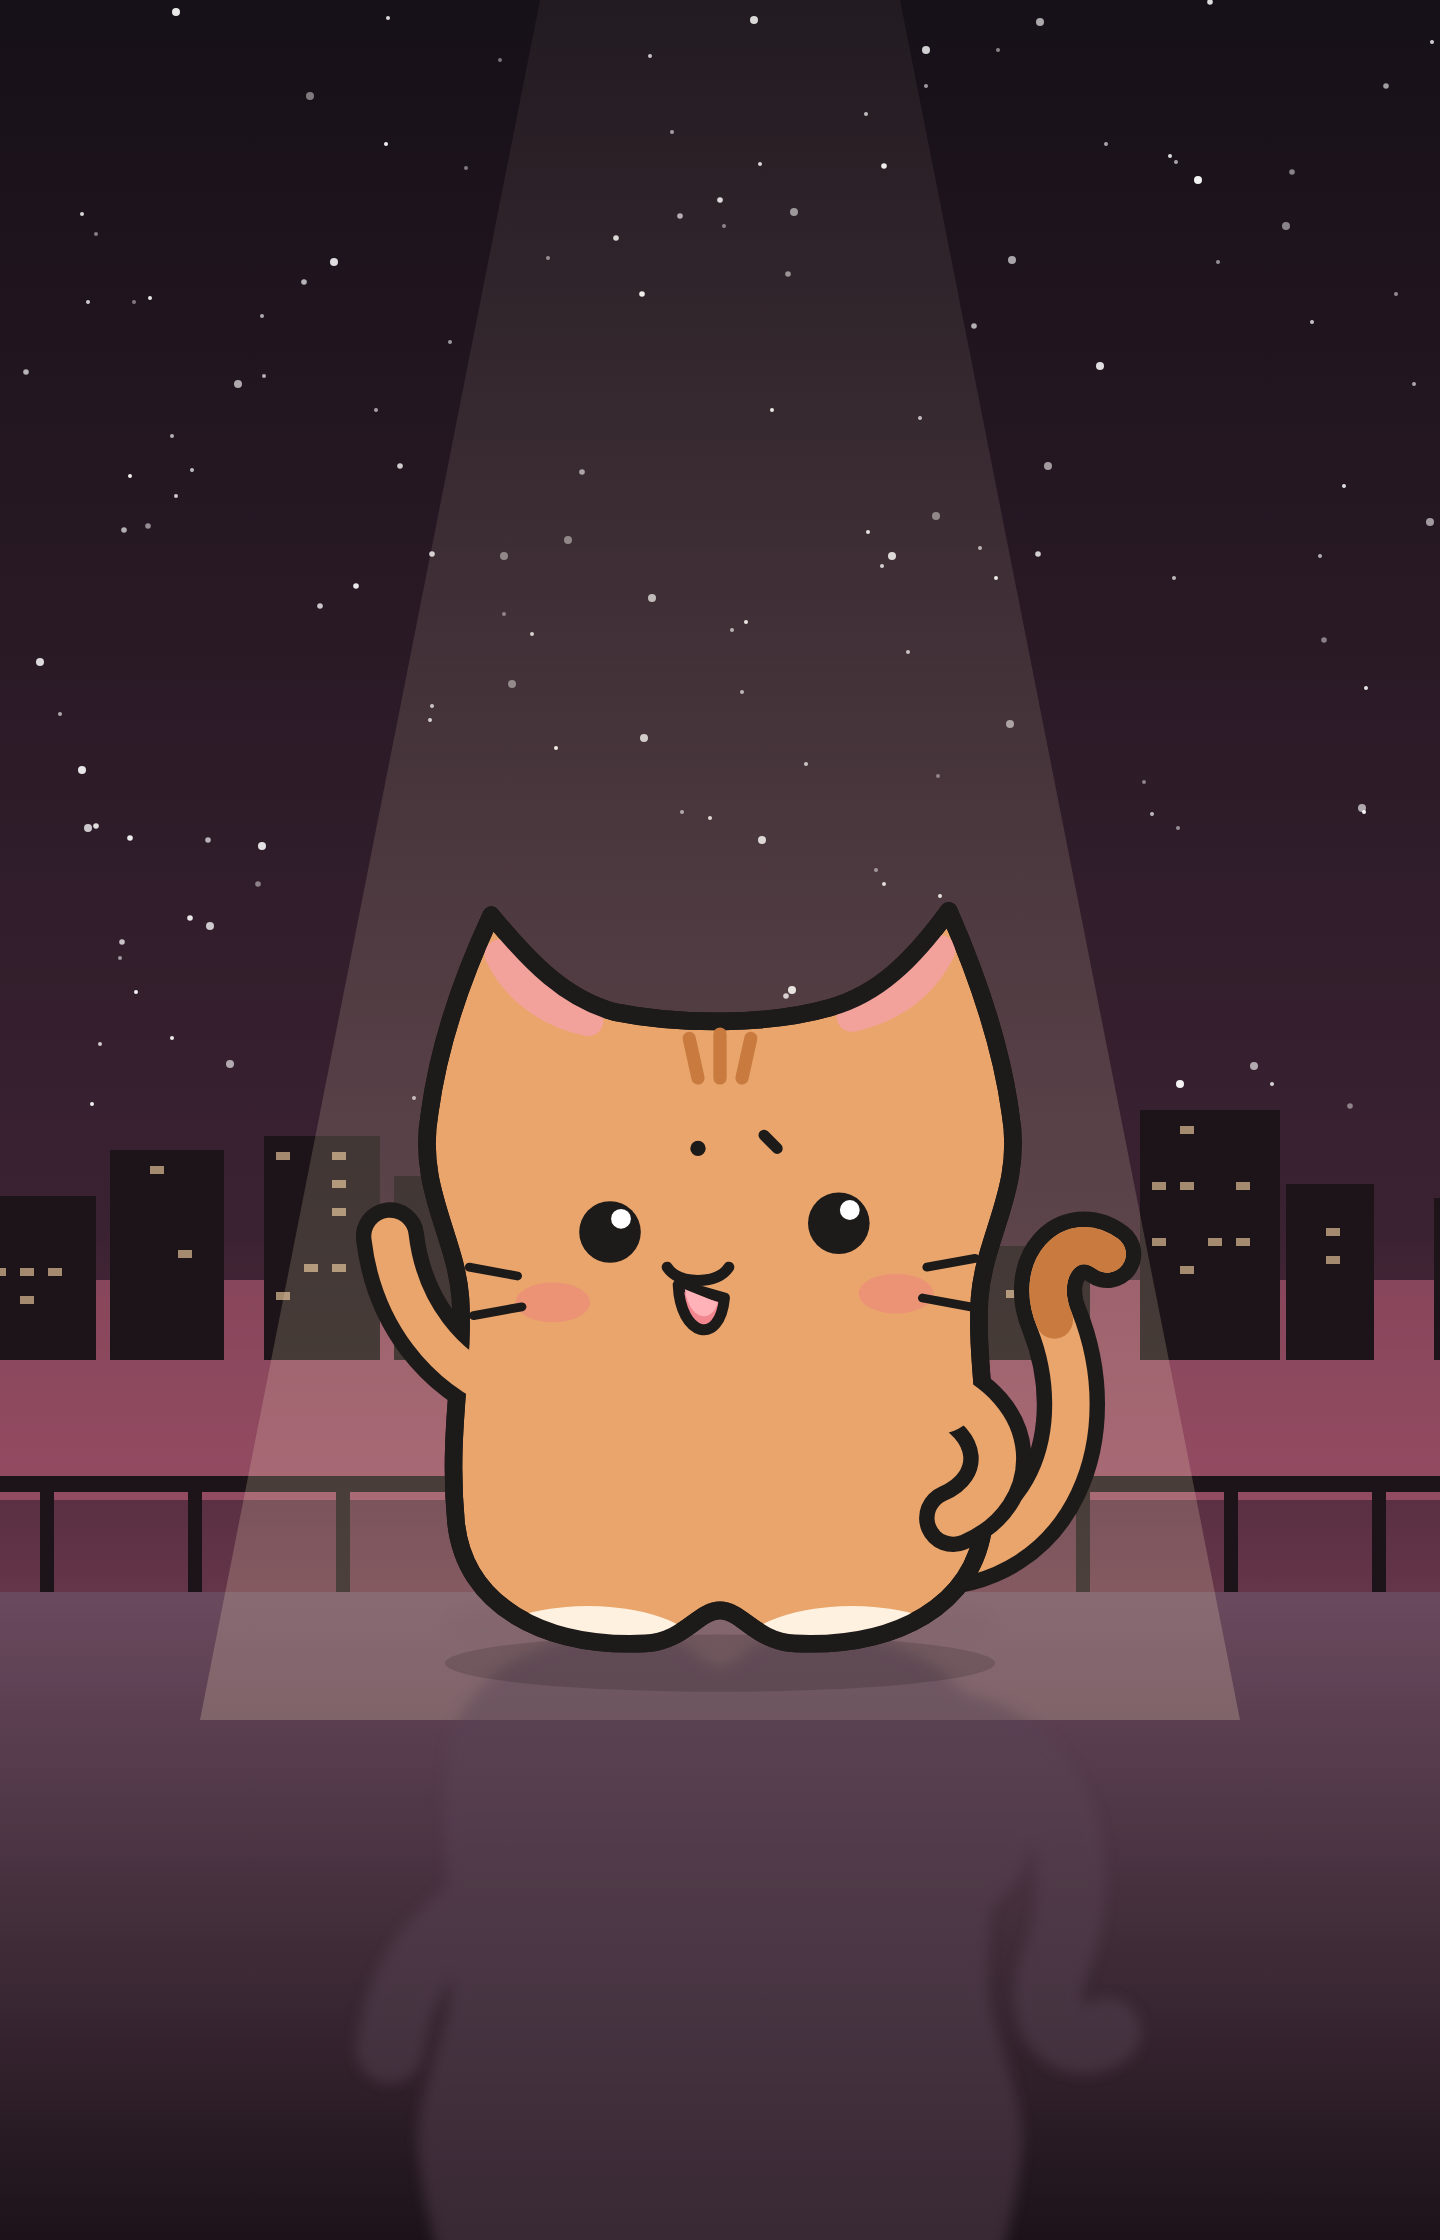
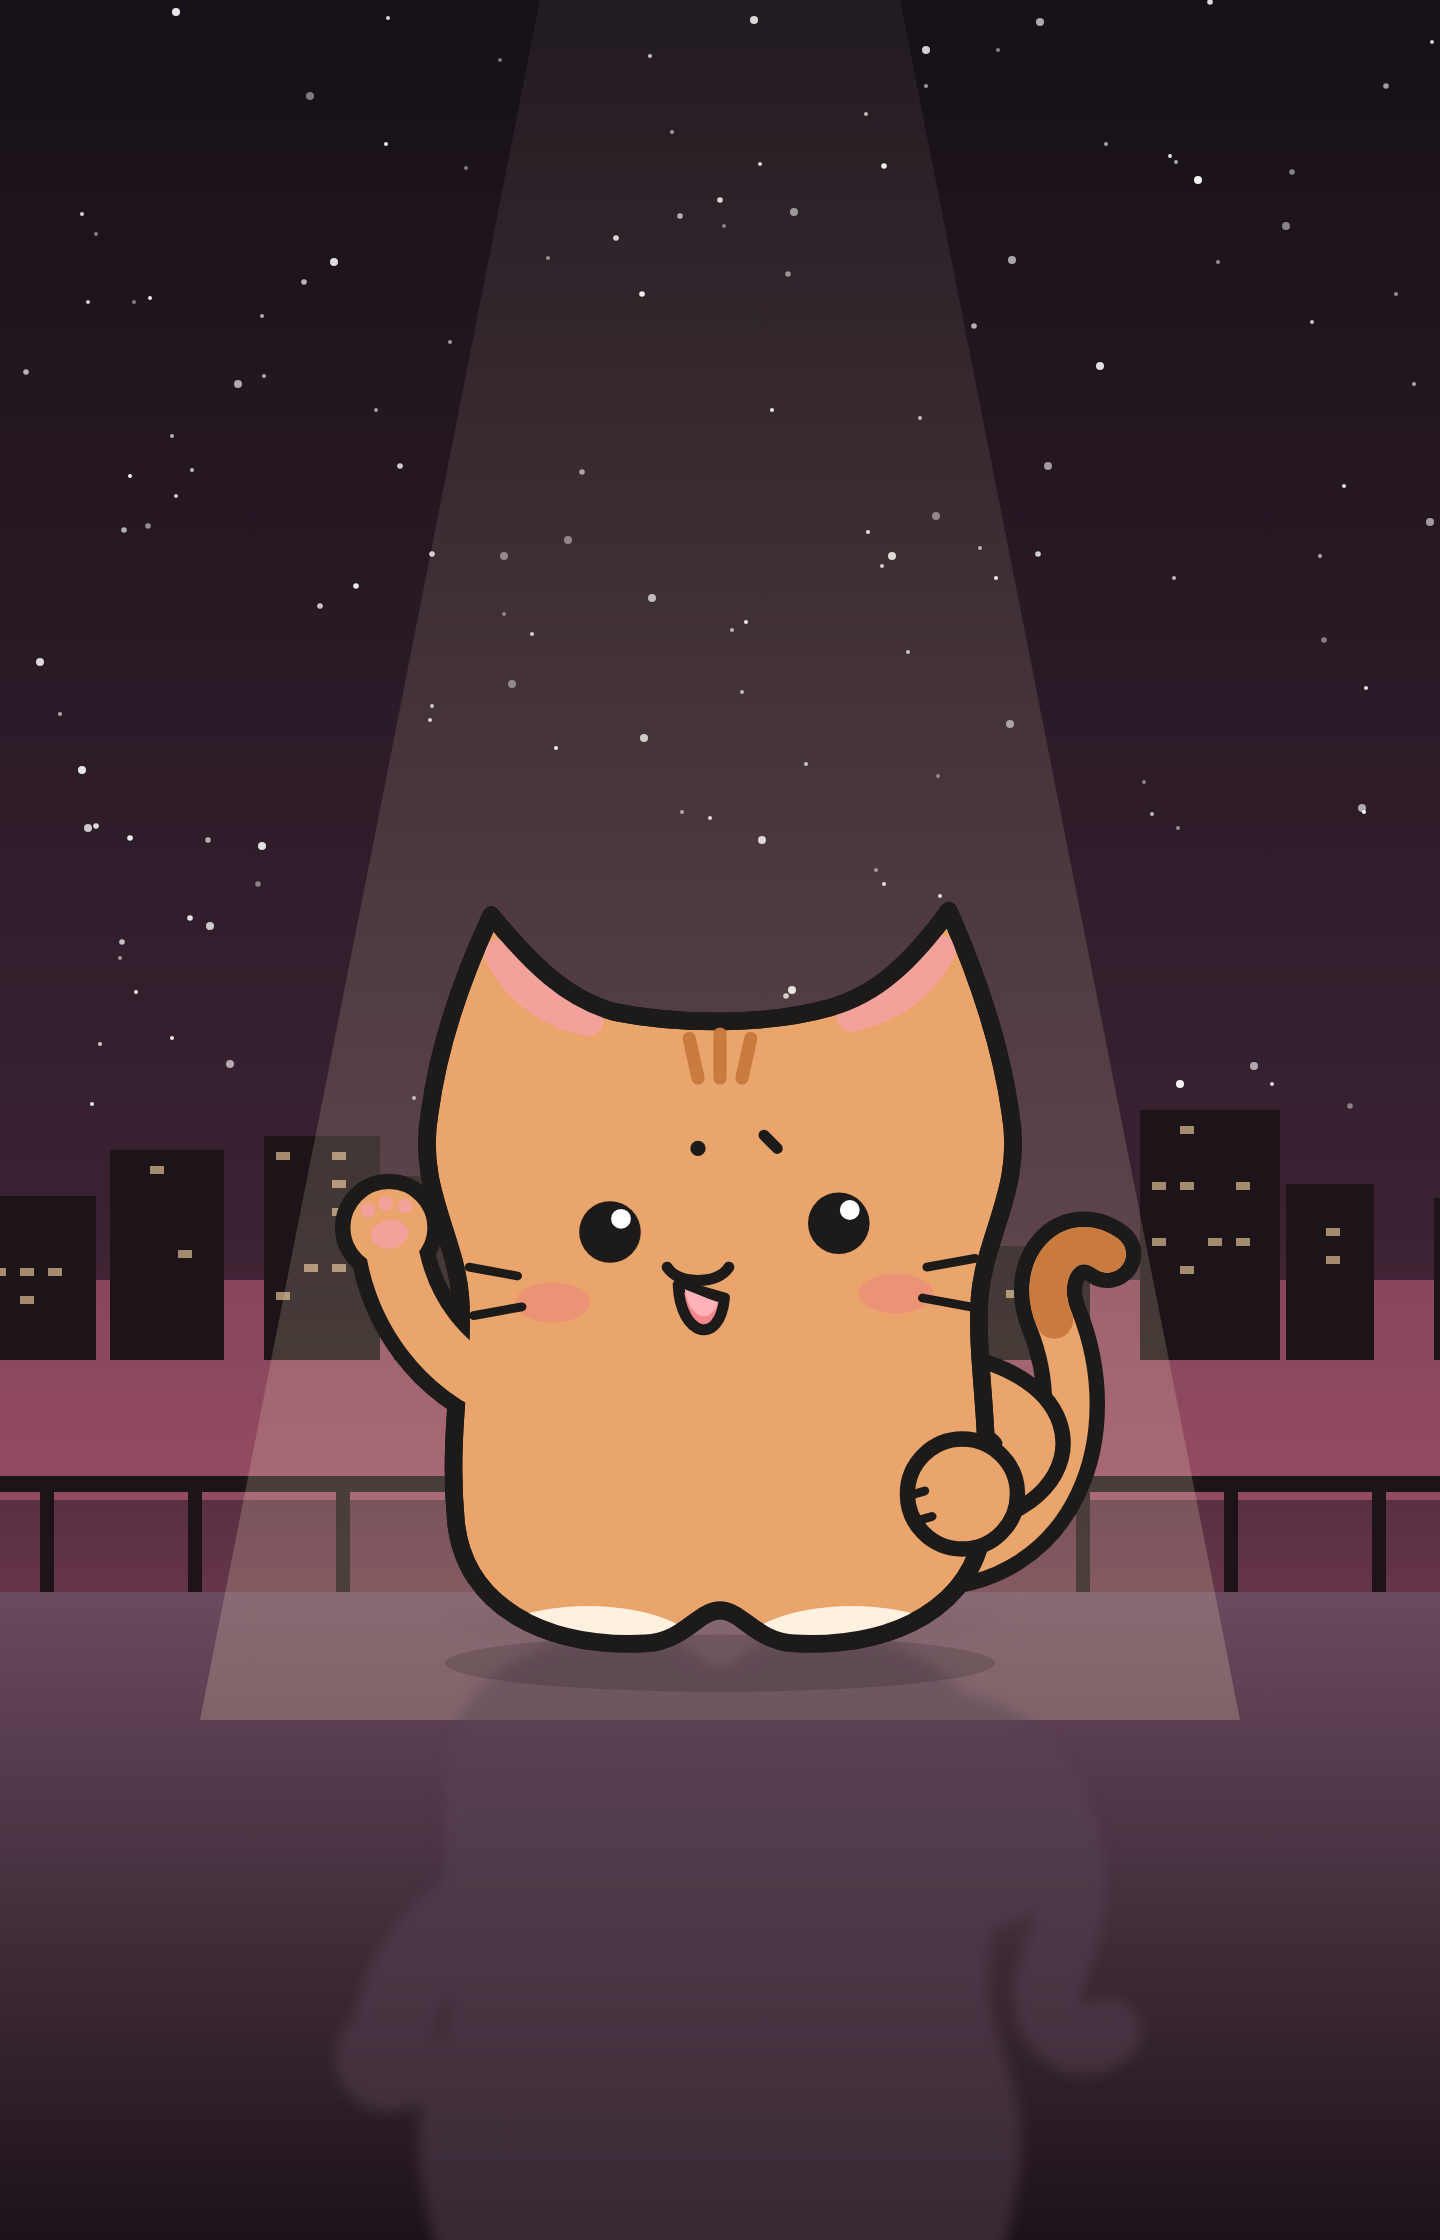
Thicker arms with paws; tuck hand-on-hip arms behind the body
Claude-Session: https://claude.ai/code/session_01WopMkcLvWqfaJwoxBBe3rR

Changed region(s): [[0.625, 0.5938, 0.75, 0.6875], [0.2188, 0.5, 0.3438, 0.625]]

diff --git a/characters/bears.py b/characters/bears.py
@@ -44,6 +44,43 @@ def noodle(d, fill, w=17, mask=None):
             f'<path d="{d}" fill="none" stroke="{fill}" stroke-width="{w}" stroke-linecap="round" stroke-linejoin="round"/>')
 
 
+def paw(d, fur, palm, r=21):
+    """Rounded paw at the end of an arm path. palm=True shows a pad + toe beans, else toe lines."""
+    import math, re
+    n = [float(v) for v in re.findall(r"-?\d+\.?\d*", d)]
+    cx, cy, ex, ey = n[-4], n[-3], n[-2], n[-1]
+    dx, dy = ex - cx, ey - cy
+    k = math.hypot(dx, dy) or 1
+    dx, dy = dx / k, dy / k
+    px, py = -dy, dx
+    ox, oy = ex + dx * 4, ey + dy * 4           # paw centre, nudged past the arm end
+    s = f'<circle cx="{ox:.1f}" cy="{oy:.1f}" r="{r}" fill="{fur}" stroke="{INK}" stroke-width="7"/><!--details-->'
+    if palm:
+        ang = math.degrees(math.atan2(dy, dx))
+        s += (f'<ellipse cx="{ox - dx * 3:.1f}" cy="{oy - dy * 3:.1f}" rx="6.5" ry="8.5" '
+              f'transform="rotate({ang:.1f} {ox - dx * 3:.1f} {oy - dy * 3:.1f})" fill="#f2a29b"/>')
+        for t in (-8.5, 0, 8.5):
+            bx = ox + dx * (11 - abs(t) * .25) + px * t
+            by = oy + dy * (11 - abs(t) * .25) + py * t
+            s += f'<circle cx="{bx:.1f}" cy="{by:.1f}" r="3.4" fill="#f2a29b"/>'
+    else:
+        for t in (-6, 6):
+            x1, y1 = ox + dx * r + px * t, oy + dy * r + py * t
+            x2, y2 = ox + dx * (r - 9) + px * t, oy + dy * (r - 9) + py * t
+            s += f'<path d="M{x1:.1f},{y1:.1f} L{x2:.1f},{y2:.1f}" {line(4)}/>'
+    return s
+
+
+def arm(d, fur, palm, mask=None, w=24):
+    """Noodle arm + paw. Order: arm outline, paw, arm fill (hides the wrist seam), paw details."""
+    m = f' mask="url(#{mask})"' if mask else ""
+    ink = f'<path d="{d}"{m} fill="none" stroke="{INK}" stroke-width="{w + 14}" stroke-linecap="round" stroke-linejoin="round"/>'
+    fill = f'<path d="{d}" fill="none" stroke="{fur}" stroke-width="{w}" stroke-linecap="round" stroke-linejoin="round"/>'
+    p = paw(d, fur, palm)
+    base, details = p.split("<!--details-->")
+    return ink + base + fill + details
+
+
 # Head + body blob with flared top corners and two foot bumps.
 BODY = ("M200,432 C190,432 184,446 166,447 C120,449 84,430 80,392 C76,350 84,320 82,290 C80,262 60,240 66,200 "
         "C70,170 80,150 102,144 C140,138 170,146 200,146 C230,146 262,138 298,144 "
@@ -51,9 +88,9 @@ BODY = ("M200,432 C190,432 184,446 166,447 C120,449 84,430 80,392 C76,350 84,320
 
 ARMS = {
     "left-up": "M104,334 C74,322 54,296 50,262",
-    "left-hip": "M102,330 C66,344 66,378 94,390",
+    "left-hip": "M102,330 C54,336 44,366 86,378",
     "right-up": "M296,334 C326,322 346,296 350,262",
-    "right-hip": "M298,330 C334,344 334,378 306,390",
+    "right-hip": "M298,330 C346,336 356,366 314,378",
 }
 
 
@@ -111,16 +148,21 @@ def bear(key, fur, ear_in, muzzle, female, wave_side):
     ]
     if not female:
         layers.append(extra)  # tuft sits behind the head outline
-    layers += [
-        L("body", "\n".join(body_inner), (200, 440)),
-        L("arm-left", noodle(arm_l, fur, mask=f"{key}-arm-left-m"), (104, 332)),
-        L("arm-right", noodle(arm_r, fur, mask=f"{key}-arm-right-m"), (296, 332)),
-    ]
+    # A waving arm sits in front of the body. A hand-on-hip arm is tucked behind the body
+    # (only the elbow shows) and its paw is a separate layer in front, with the same pivot.
+    behind, front = [], []
+    for side, d, piv in (("left", arm_l, (104, 332)), ("right", arm_r, (296, 332))):
+        if wave_side == side:
+            front.append(L(f"arm-{side}", arm(d, fur, True, mask=f"{key}-arm-{side}-m"), piv))
+        else:
+            behind.append(L(f"arm-{side}", noodle(d, fur, w=24), piv))
+            front.append(L(f"paw-{side}", paw(d, fur, False, r=25).replace("<!--details-->", ""), piv))
+    layers += behind + [L("body", "\n".join(body_inner), (200, 440))] + front
     if female:
         layers.append(extra)  # bow sits on top of the ear
     defs = (f'<clipPath id="{key}-clip"><path d="{BODY}"/></clipPath>'
-            + shoulder_mask(f"{key}-arm-left-m", f"{key}-clip", 104, 332, r=40 if wave_side == "left" else 22)
-            + shoulder_mask(f"{key}-arm-right-m", f"{key}-clip", 296, 332, r=40 if wave_side == "right" else 22))
+            + shoulder_mask(f"{key}-arm-left-m", f"{key}-clip", 104, 332, r=400)
+            + shoulder_mask(f"{key}-arm-right-m", f"{key}-clip", 296, 332, r=400))
     return "\n".join(layers), defs
 
 

diff --git a/characters/cat.py b/characters/cat.py
@@ -48,16 +48,55 @@ def noodle(d, fill, w=17, mask=None):
             f'<path d="{d}" fill="none" stroke="{fill}" stroke-width="{w}" stroke-linecap="round" stroke-linejoin="round"/>')
 
 
+def paw(d, fur, palm, r=21):
+    """Rounded paw at the end of an arm path. palm=True shows a pad + toe beans, else toe lines."""
+    import math, re
+    n = [float(v) for v in re.findall(r"-?\d+\.?\d*", d)]
+    cx, cy, ex, ey = n[-4], n[-3], n[-2], n[-1]
+    dx, dy = ex - cx, ey - cy
+    k = math.hypot(dx, dy) or 1
+    dx, dy = dx / k, dy / k
+    px, py = -dy, dx
+    ox, oy = ex + dx * 4, ey + dy * 4           # paw centre, nudged past the arm end
+    s = f'<circle cx="{ox:.1f}" cy="{oy:.1f}" r="{r}" fill="{fur}" stroke="{INK}" stroke-width="7"/><!--details-->'
+    if palm:
+        ang = math.degrees(math.atan2(dy, dx))
+        s += (f'<ellipse cx="{ox - dx * 3:.1f}" cy="{oy - dy * 3:.1f}" rx="6.5" ry="8.5" '
+              f'transform="rotate({ang:.1f} {ox - dx * 3:.1f} {oy - dy * 3:.1f})" fill="#f2a29b"/>')
+        for t in (-8.5, 0, 8.5):
+            bx = ox + dx * (11 - abs(t) * .25) + px * t
+            by = oy + dy * (11 - abs(t) * .25) + py * t
+            s += f'<circle cx="{bx:.1f}" cy="{by:.1f}" r="3.4" fill="#f2a29b"/>'
+    else:
+        for t in (-6, 6):
+            x1, y1 = ox + dx * r + px * t, oy + dy * r + py * t
+            x2, y2 = ox + dx * (r - 9) + px * t, oy + dy * (r - 9) + py * t
+            s += f'<path d="M{x1:.1f},{y1:.1f} L{x2:.1f},{y2:.1f}" {line(4)}/>'
+    return s
+
+
+def arm(d, fur, palm, mask=None, w=24):
+    """Noodle arm + paw. Order: arm outline, paw, arm fill (hides the wrist seam), paw details."""
+    m = f' mask="url(#{mask})"' if mask else ""
+    ink = f'<path d="{d}"{m} fill="none" stroke="{INK}" stroke-width="{w + 14}" stroke-linecap="round" stroke-linejoin="round"/>'
+    fill = f'<path d="{d}" fill="none" stroke="{fur}" stroke-width="{w}" stroke-linecap="round" stroke-linejoin="round"/>'
+    p = paw(d, fur, palm)
+    base, details = p.split("<!--details-->")
+    return ink + base + fill + details
+
+
 # One blob for head + body; ear tips at the top corners, two foot bumps at the bottom.
 BODY = ("M200,432 C190,432 184,446 166,447 C120,449 84,430 80,392 C76,350 84,320 82,290 C80,262 62,240 68,206 "
         "C72,176 82,146 96,116 C114,138 130,154 152,160 C182,166 222,166 250,158 "
         "C272,152 288,136 304,114 C318,146 328,176 332,206 C338,240 320,262 318,290 C316,320 324,350 320,392 C316,430 280,449 234,447 C216,446 210,432 200,432 Z")
 
+HIP = "M298,330 C346,336 356,366 314,378"
 layers = [
     L("shadow", '<ellipse cx="200" cy="456" rx="125" ry="13" fill="#000" opacity=".14"/>'),
     L("tail", noodle("M292,410 C352,410 372,350 352,300 C342,276 360,258 376,270", FUR)
               + f'<path d="M352,300 C342,276 360,258 376,270" fill="none" stroke="{FUR_DK}" '
                 f'stroke-width="17" stroke-linecap="round"/>', (292, 405)),
+    L("arm-right", noodle(HIP, FUR, w=24), (298, 330)),
     L("body", "\n".join([
         L("body-base",
           f'<path d="{BODY}" {o(FUR)}/>'
@@ -88,14 +127,15 @@ layers = [
         "</g>",
     ]), (200, 440)),
     # left arm waves up, right hand rests on the hip
-    L("arm-left", noodle("M104,334 C74,322 54,296 50,262", FUR, mask="tofu-arm-left-m"), (104, 334)),
-    L("arm-right", noodle("M298,330 C334,344 334,378 306,390", FUR, mask="tofu-arm-right-m"), (298, 330)),
+    L("arm-left", arm("M104,334 C74,322 54,296 50,262", FUR, True, mask="tofu-arm-left-m"), (104, 334)),
+    # hand-on-hip paw sits in front of the body; its arm is tucked behind (layer "arm-right" above)
+    L("paw-right", paw(HIP, FUR, False, r=25).replace("<!--details-->", ""), (298, 330)),
 ]
 
 CHAR = "\n".join(layers)
 DEFS = (f'<clipPath id="tofu-clip"><path d="{BODY}"/></clipPath>'
-        + shoulder_mask("tofu-arm-left-m", "tofu-clip", 104, 334)
-        + shoulder_mask("tofu-arm-right-m", "tofu-clip", 298, 330, r=22))
+        + shoulder_mask("tofu-arm-left-m", "tofu-clip", 104, 334, r=400)
+        + shoulder_mask("tofu-arm-right-m", "tofu-clip", 298, 330, r=400))
 HEAD = ('<svg xmlns="http://www.w3.org/2000/svg" xmlns:inkscape="http://www.inkscape.org/namespaces/inkscape" '
         'xmlns:xlink="http://www.w3.org/1999/xlink"')
 
